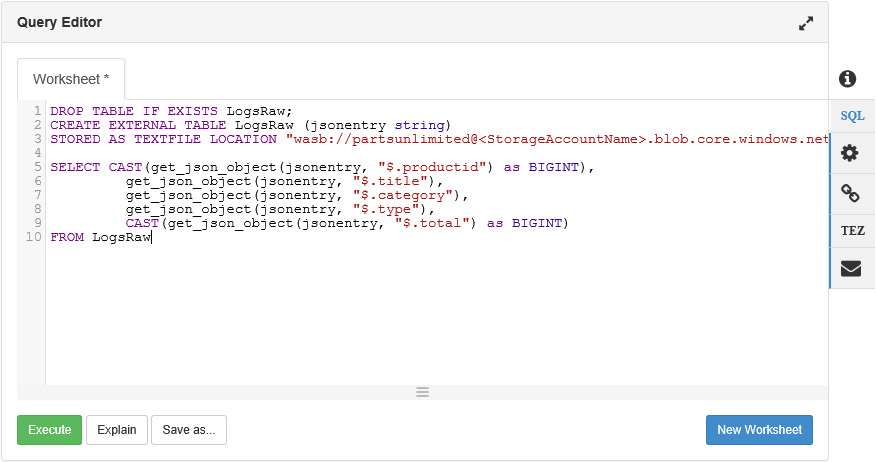
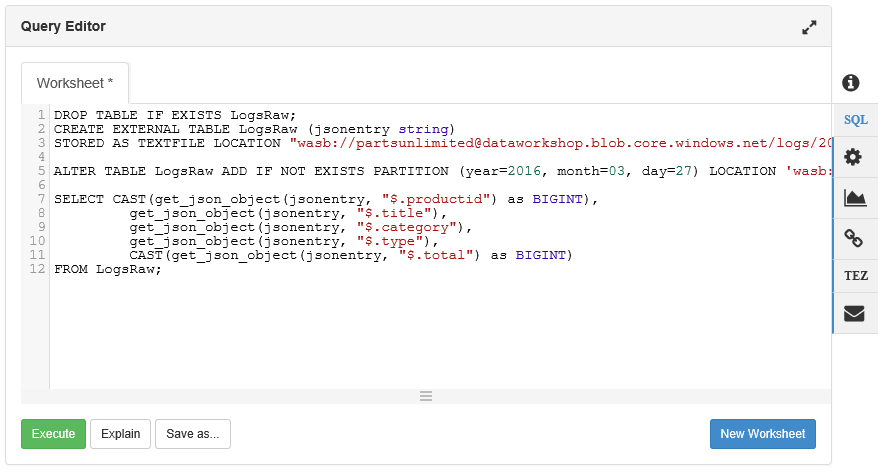
WIP: updated linux hive query

diff --git a/Module2-GainInsights/README.md b/Module2-GainInsights/README.md
@@ -57,7 +57,7 @@ In order to run the exercises in this module, you'll need to create an HDI clust
 	- **Storm**: for real time event processing workloads
 	- **Spark**: for in-memory processing, interactive queries, stream, and machines learning workloads.
 
-1. Select an operating system for the cluster (you can choose between either Windows or Linux) and use the latest version ("Hadoop 2.7.0 (HDI 3.3)" or latest)
+1. Select an _operating system_ for the cluster (you can choose between either Windows or Linux) and **use the latest version** ("Hadoop 2.7.0 (HDI 3.3)" or latest)
 
 1. Select the same Resource Group as the used for the Storage account ("**DataCodeLab**").
 
@@ -722,7 +722,7 @@ In this task, you'll write a Hive query to generate product stats (views and car
 		CREATE EXTERNAL TABLE LogsRaw (jsonentry string) 
 		STORED AS TEXTFILE LOCATION "wasb://partsunlimited@<StorageAccountName>.blob.core.windows.net/logs/2016/03/30";
 
-		ALTER TABLE LogsRaw ADD IF NOT EXISTS PARTITION (year=2016, month=03, day=27) LOCATION 'wasb://partsunlimited@<StorageAccountName>.blob.core.windows.net/logs/2016/03/30';
+		ALTER TABLE LogsRaw ADD IF NOT EXISTS PARTITION (year=2016, month=03, day=30) LOCATION 'wasb://partsunlimited@<StorageAccountName>.blob.core.windows.net/logs/2016/03/30';
 
 		SELECT CAST(get_json_object(jsonentry, "$.productid") as BIGINT),
 				 get_json_object(jsonentry, "$.title"),
@@ -767,7 +767,7 @@ In this task, you'll write a Hive query to generate product stats (views and car
 		CREATE EXTERNAL TABLE LogsRaw (jsonentry string) 
 		STORED AS TEXTFILE LOCATION "wasb://partsunlimited@<StorageAccountName>.blob.core.windows.net/logs/2016/03/30";
 
-		ALTER TABLE LogsRaw ADD IF NOT EXISTS PARTITION (year=2016, month=03, day=27) LOCATION 'wasb://partsunlimited@<StorageAccountName>.blob.core.windows.net/logs/2016/03/30';
+		ALTER TABLE LogsRaw ADD IF NOT EXISTS PARTITION (year=2016, month=03, day=30) LOCATION 'wasb://partsunlimited@<StorageAccountName>.blob.core.windows.net/logs/2016/03/30';
 
 		SELECT CAST(get_json_object(jsonentry, "$.productid") as BIGINT),
 				 get_json_object(jsonentry, "$.title"),
@@ -908,7 +908,7 @@ In this task, you'll create the pipeline to generate the stats output using a _H
 				  "scriptPath": "partsunlimited\\Scripts\\addpartitions.hql",
 				  "scriptLinkedService": "AzureStorageLinkedService",
 					 "defines": {
-					"StorageAccountName": "<StorageAccountName>",
+							 "StorageAccountName": "<StorageAccountName>",
 							 "Year": "$$Text.Format('{0:yyyy}', SliceStart)",
 							 "Month": "$$Text.Format('{0:MM}', SliceStart)",
 							 "Day": "$$Text.Format('{0:dd}', SliceStart)"
